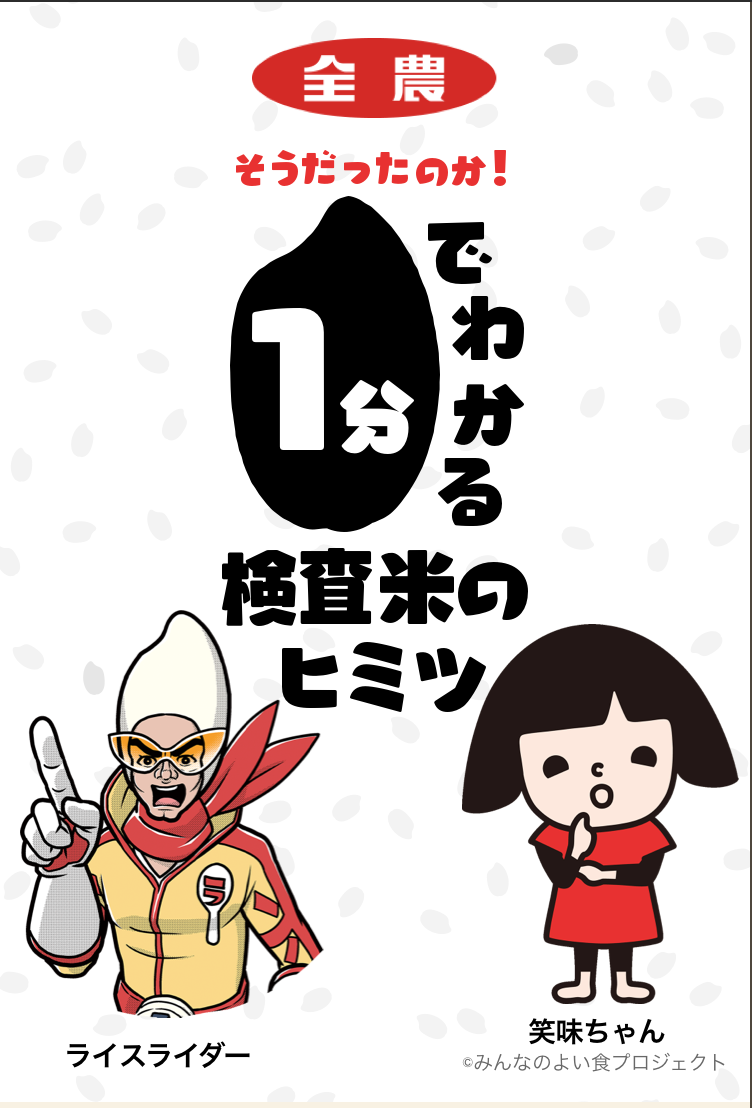
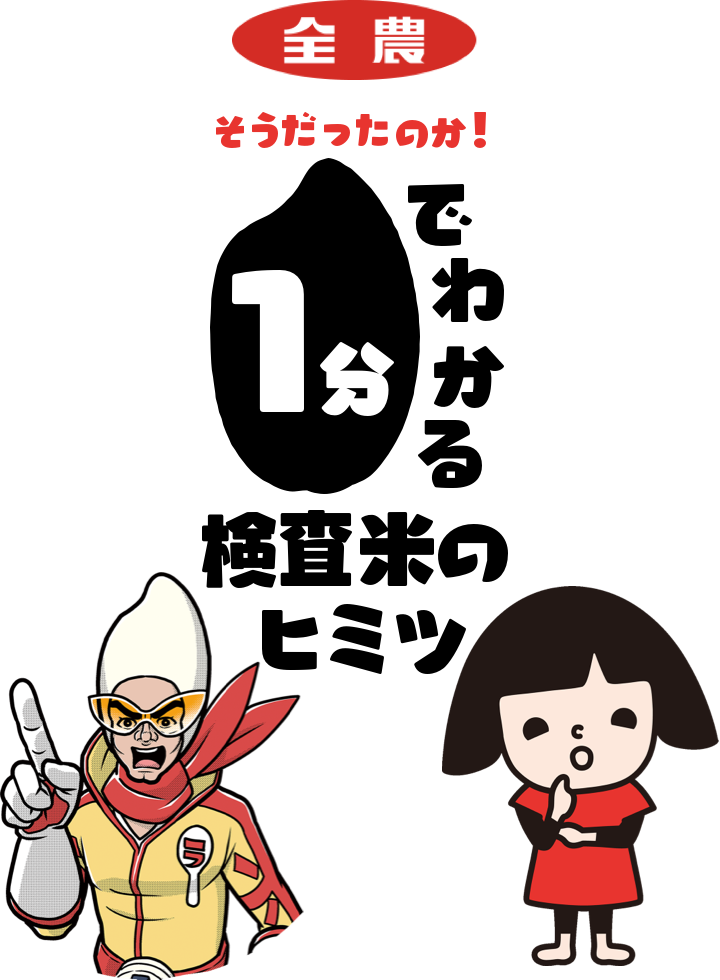
画像差し替え、調整

diff --git a/kome/css/style.css b/kome/css/style.css
@@ -13,11 +13,6 @@ header {
   margin: 0 auto;
   padding: 0;
   background: #FFF;
-  position: relative;
-  height: 60vw !important;
-  max-height: 500px;
-  max-width: 1000px;
-  background: url(../img/header_pc.png) center / cover;
 }
 
 footer {
@@ -77,7 +72,6 @@ h1 span {
   background: #F7F1E2;
   padding: 10px;
   margin: 0 auto;
-  padding: 10px;
 }
 
 .sidebar {
@@ -157,8 +151,10 @@ h1 span {
   padding-bottom: 10px;
 }
 
+
 .chat__right {
   justify-content:flex-end;
+  margin-right: 20px;
 }
 
 .face__icon img {
@@ -315,6 +311,13 @@ h1 span {
 
 /** PCのみ **/
 @media all and (min-width: 769px) {
+  body
+  header {
+    position: relative;
+    height: 50vw !important;
+    background: url(../img/pc_header_bg.png) center / cover;
+  }
+
   .footer__wrap {
     margin: 0 auto;
     padding: 0;
@@ -340,15 +343,11 @@ h1 span {
 
 /** スマホ・タブレット **/
 @media all and (max-width: 768px) {
+
   header {
-    margin: 0 auto;
-    padding: 0;
-    background: #FFF;
     position: relative;
-    height: 120vh !important;
-    max-height: 700px;
-    max-width: 768px;
-    background: url(../img/header_sp.png) center / cover;
+    height: 120vw !important;
+    background: url(../img/sp_header_bg.png) center / cover;
   }
 
   footer {
@@ -383,14 +382,16 @@ h1 span {
   }
 
   .main {
-    font-size: 100%;
-    width: 100%;
-    background: #F7F1E2;
     display: block;
+    width: 96%;
+    font-size: 120%;
+    background: #F7F1E2;
     padding: 10px;
+    margin: 0 auto;
   }
 
   .sidebar {
+    width: 0%;
     display:none;
   }
 

diff --git a/kome/index.html b/kome/index.html
@@ -352,12 +352,12 @@
             <div class="bubble__left">
               <p>農水省が、消費者向けのパンフレットを作成しているぞ。 ここからチェックだ…ッ！</p>
               <div class="link__box__wrap">
-                <a href="https://www.maff.go.jp/j/use/link.html" target="_blank">
+                <a href="https://www.maff.go.jp/j/seisan/syoryu/kensa/attach/pdf/index-2.pdf" target="_blank">
                   <div class="link__box">
                     <div class="img__box"><img src="./img/maff_logo.png"></div>
                     <div class="text__box">
                       <p class="title">農水省リンク</p>
-                      <p class="description">https://www.maff.go.jp/j/use/link.html</p>
+                      <p class="description">https://www.maff.go.jp/j/seisan/syoryu/kensa/attach/pdf/index-2.pdf</p>
                     </div>
                   </div>
                 </a>
